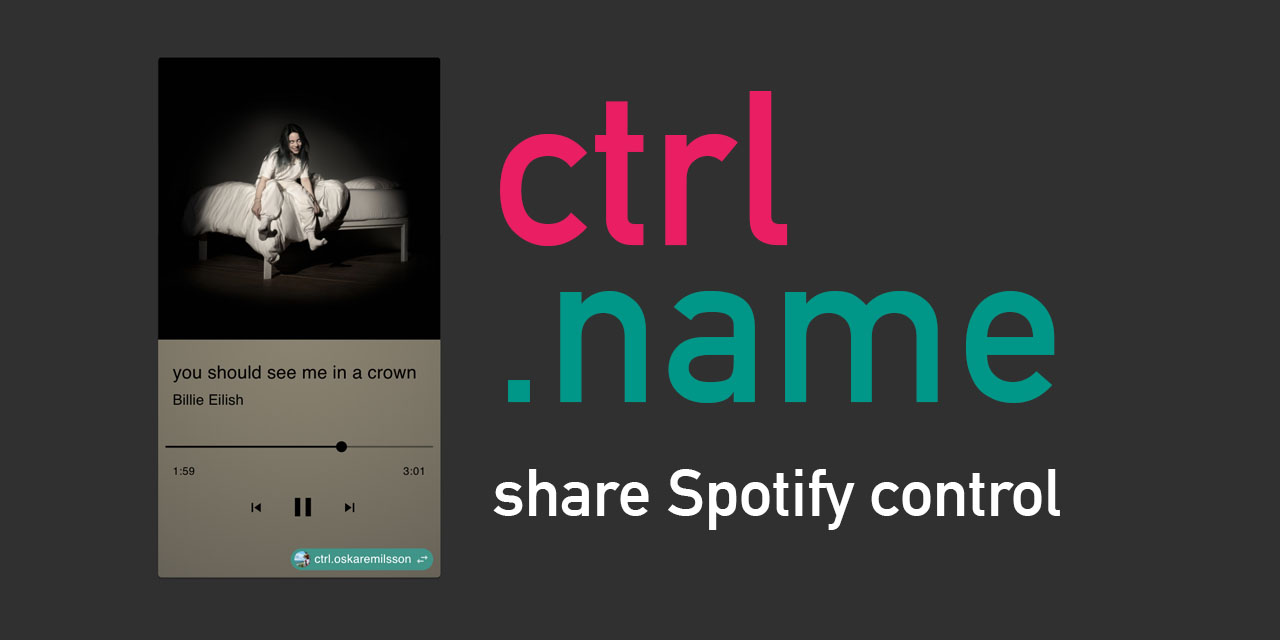
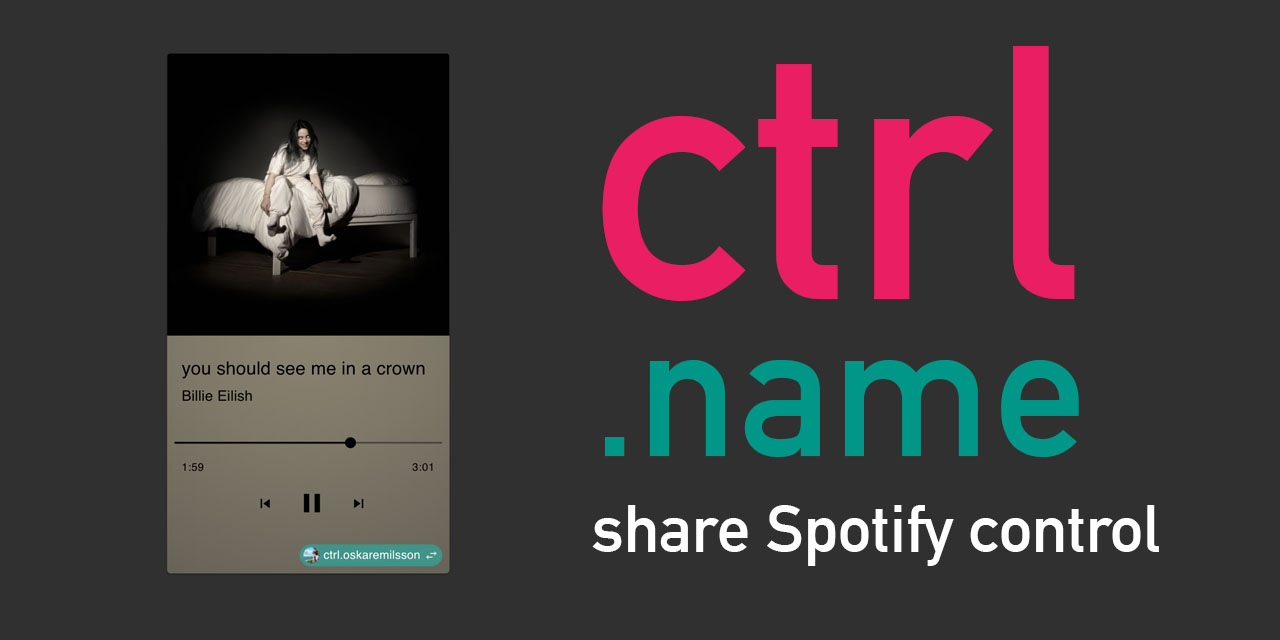
New img

Changed region(s): [[0.125, 0.0625, 0.9062, 0.9062], [0.1875, 0.75, 0.2812, 0.8125]]

diff --git a/src/pages/LandingPage/LandingPage.js b/src/pages/LandingPage/LandingPage.js
@@ -11,22 +11,19 @@ export default function LandingPage() {
       alignItems="center"
       justifyContent="center"
       minHeight="100vh"
+      flexDirection="column"
     >
-      <Box
-        maxWidth="600px"
-        display="flex"
-        justifyContent="center"
-        flexDirection="column"
-      >
+      <Box maxWidth="600px">
         <img src={headerImage} alt="header_img" width="100%" />
-        <Button
-          variant="contained"
-          color="primary"
-          href={`https://accounts.spotify.com/authorize?client_id=${process.env.REACT_APP_CLIENT_ID}&response_type=code&redirect_uri=${process.env.REACT_APP_SPOTIFY_REDIRECT_URI}&scope=${process.env.REACT_APP_SPOTIFY_SCOPE}`}
-        >
-          Login
-        </Button>
       </Box>
+
+      <Button
+        variant="contained"
+        color="primary"
+        href={`https://accounts.spotify.com/authorize?client_id=${process.env.REACT_APP_CLIENT_ID}&response_type=code&redirect_uri=${process.env.REACT_APP_SPOTIFY_REDIRECT_URI}&scope=${process.env.REACT_APP_SPOTIFY_SCOPE}`}
+      >
+        Login
+      </Button>
     </Box>
   );
 }
